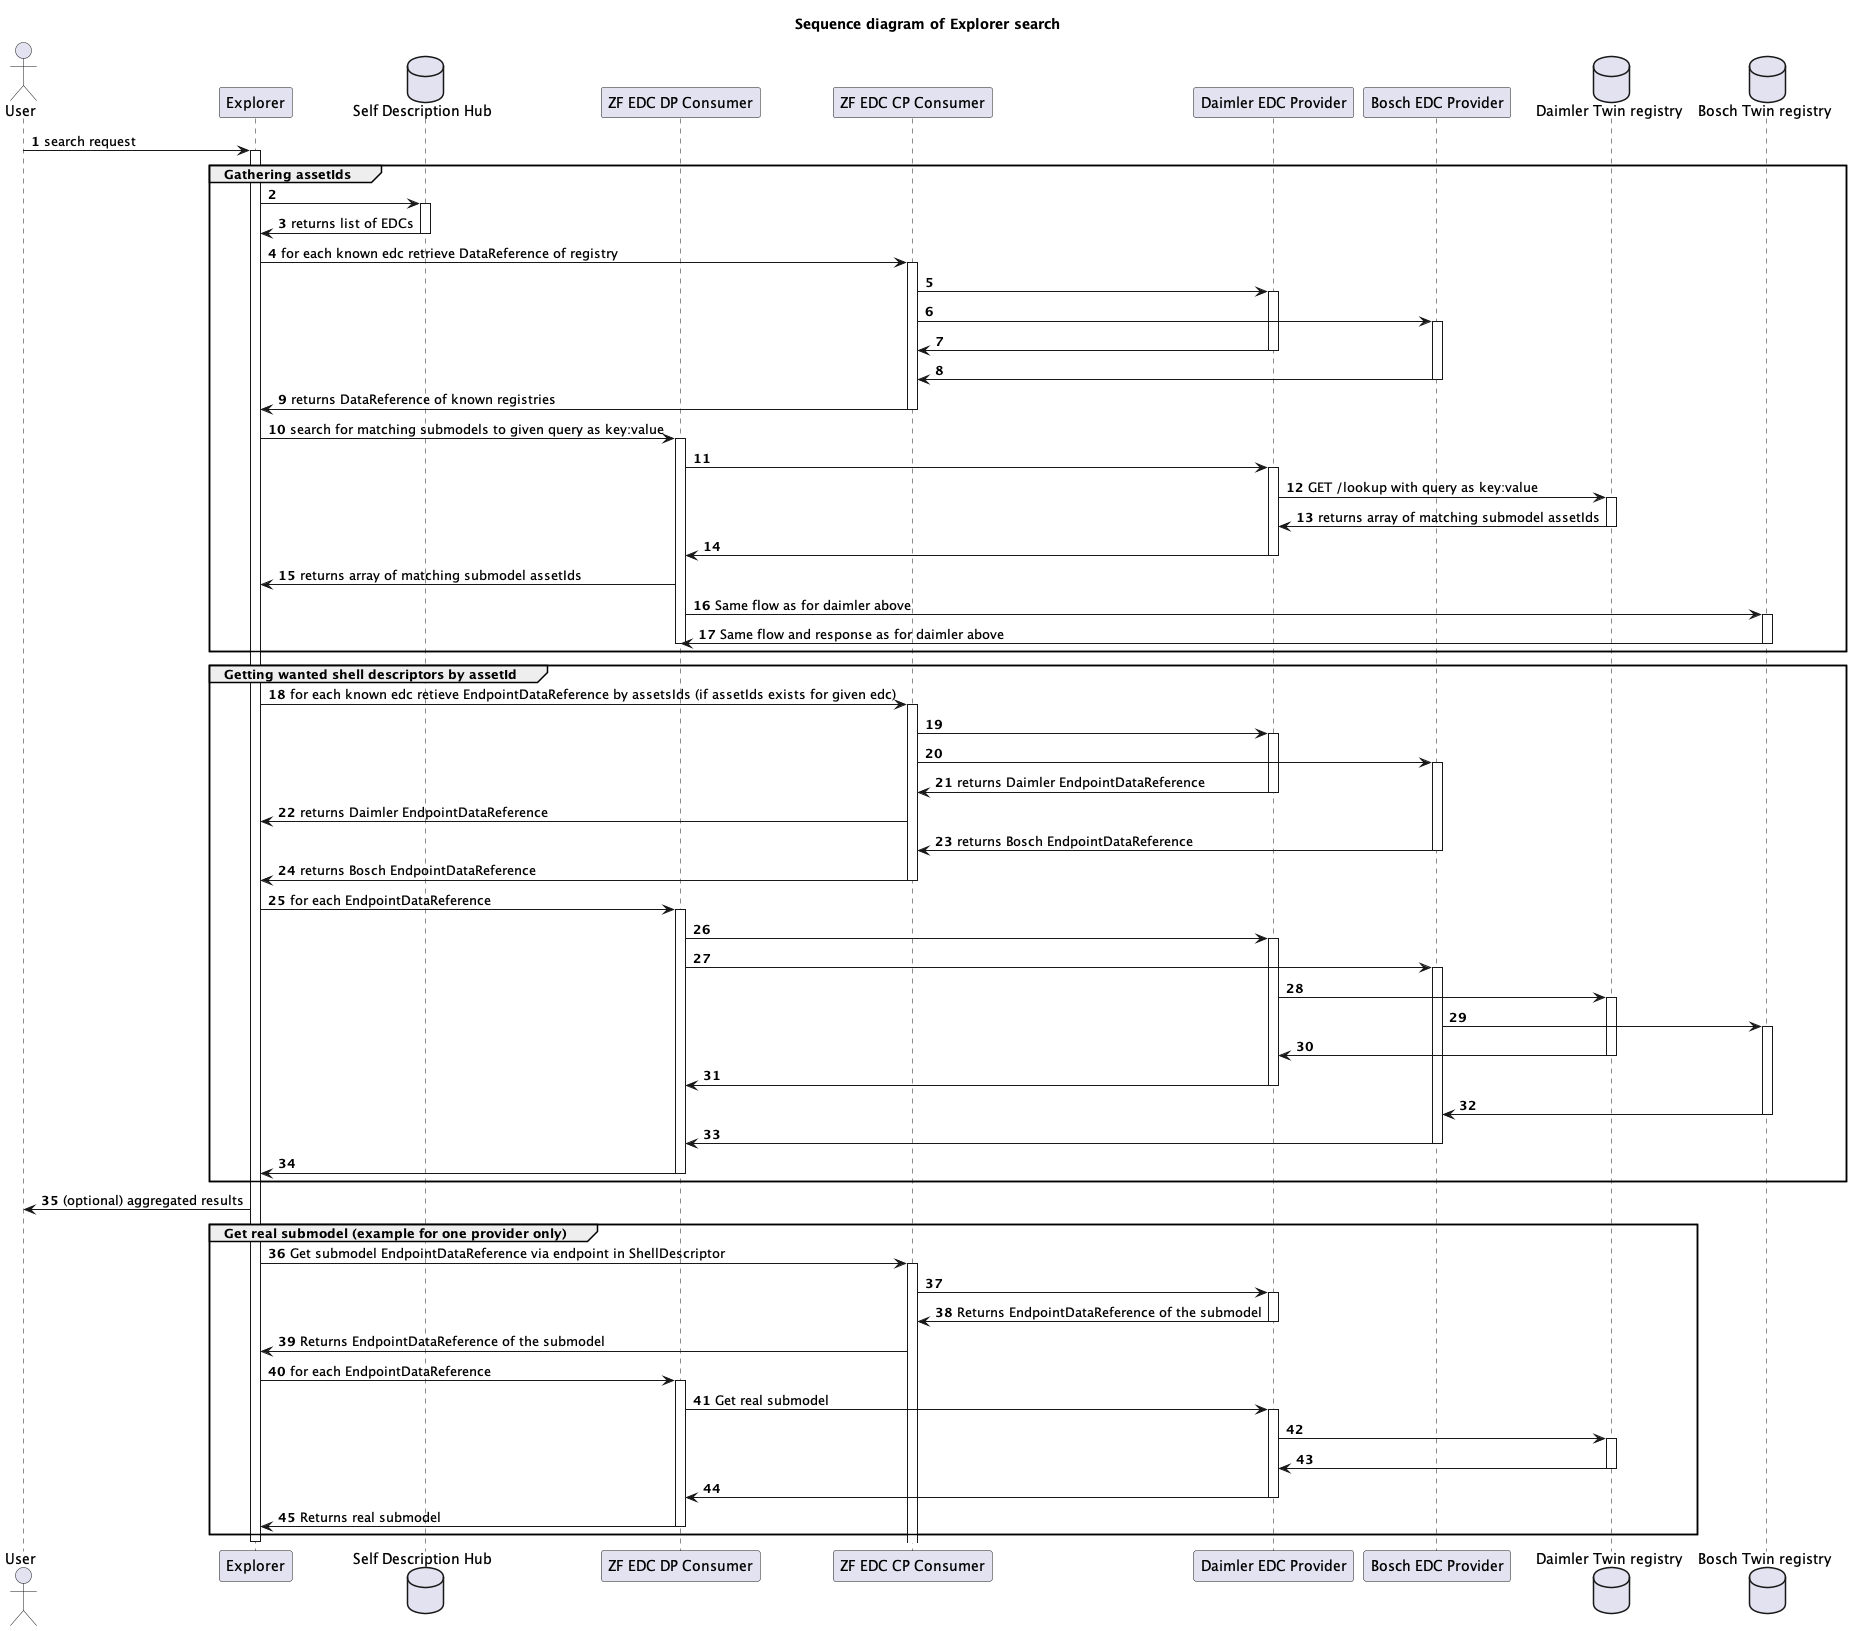
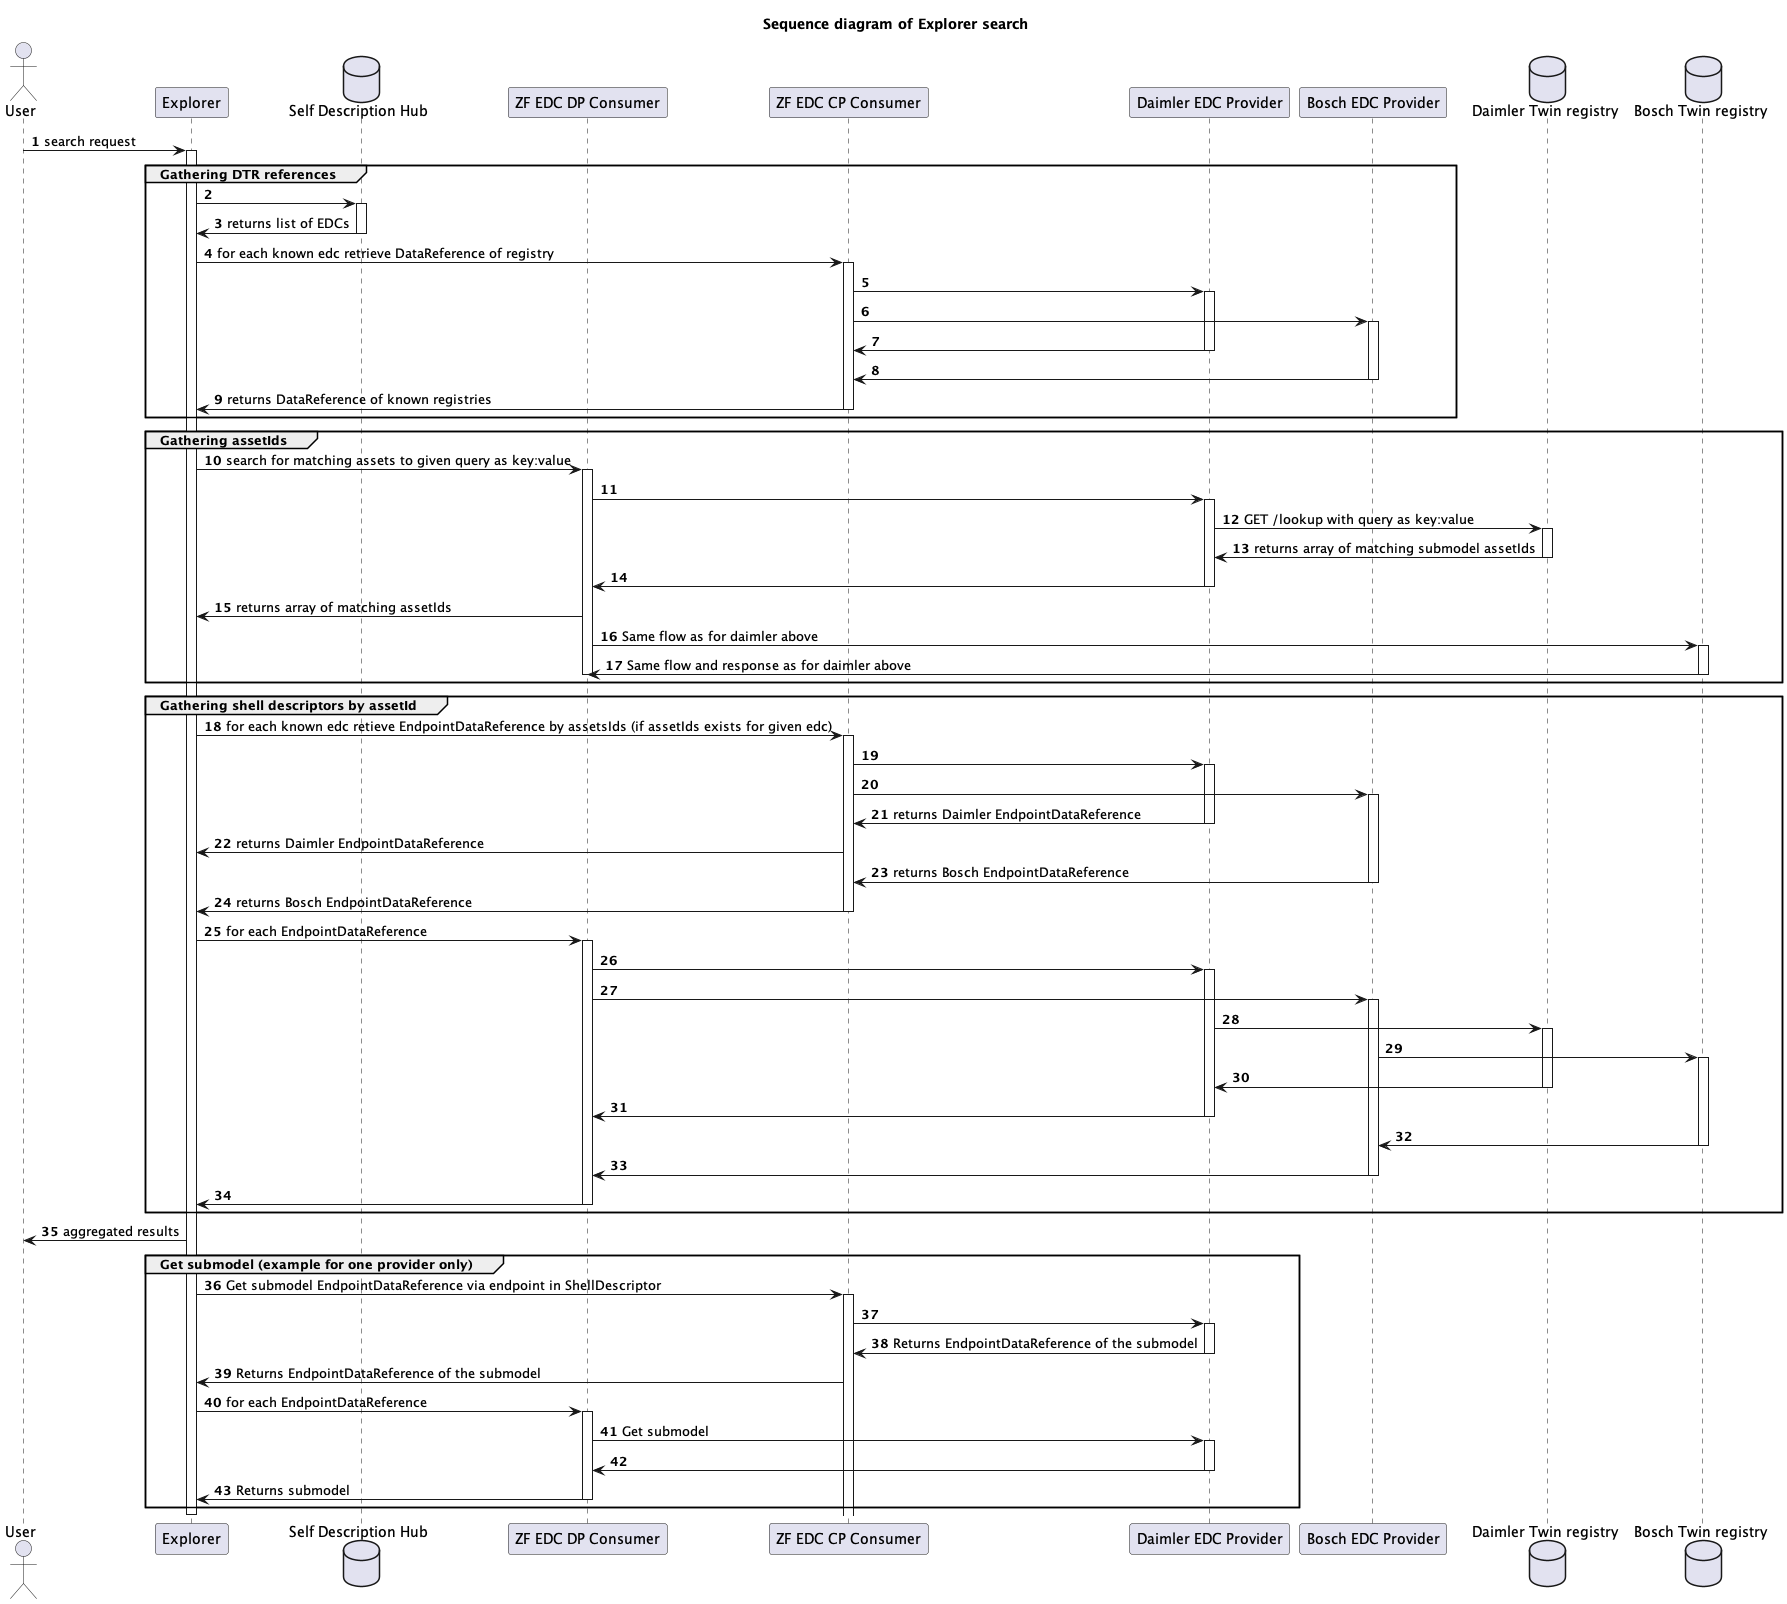
Feature/new uml 2 (#53)
* update uml and minor changes

* formatting

* change zf dataplane image to the one pushed into the registry

diff --git a/README.md b/README.md
@@ -52,7 +52,7 @@ https://github.com/marcingajek-zf/product-edc-cp-adapter.git
 ```shell
 cd edc-controlplane/edc-controlplane-memory
 mvn clean package -DSkipTests
-docker image buil -t edc-controlplane-memory-with-extension .
+docker image build -t edc-controlplane-memory-with-extension .
 ```
 
 ### Build SDH - Self description hub
